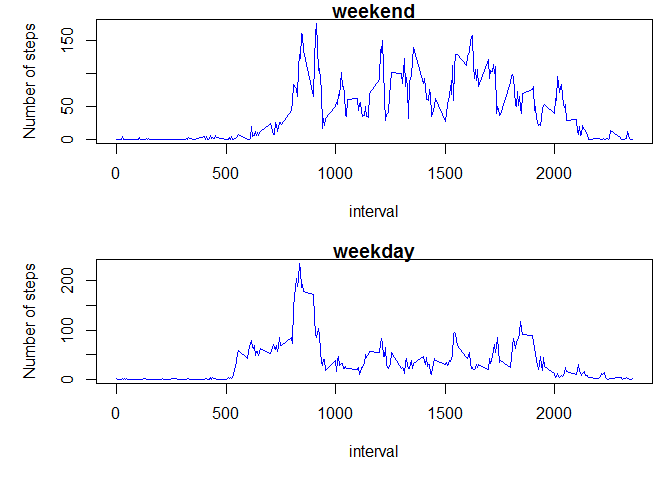
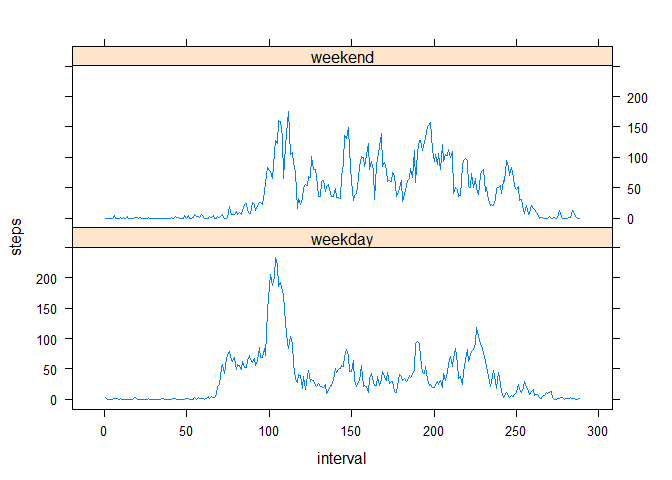
RepData_PeerAssessment1

diff --git a/PA1_template.html b/PA1_template.html
@@ -68,17 +68,19 @@ img {
 <h2>Loading and preprocessing the data</h2>
 <p>I loaded the data and I processed the data into a format suitable for analysis</p>
 <pre class="r"><code>act &lt;- read.csv(&quot;activity.csv&quot;,header = T)
-act$dt &lt;- strptime(act$date, &quot;%Y-%m-%d&quot;)
-act$interval &lt;- as.factor(act$interval)
-act$dtf &lt;- as.factor(act$date)</code></pre>
+act$dt &lt;- strptime(act$date, &quot;%Y-%m-%d&quot;) ##creating a new attribute: dt which is the date in POSIXt
+act$interval &lt;- as.factor(act$interval) ##setting the interval as factor
+act$dtf &lt;- as.factor(act$date) ##creating a new attribute (date as factor)</code></pre>
 </div>
 <div id="what-is-mean-total-number-of-steps-taken-per-day" class="section level2">
 <h2>What is mean total number of steps taken per day?</h2>
 <pre class="r"><code>t &lt;- tapply(act$steps,act$dtf,sum,na.rm=T)
 hist(t,nclass=10,xlab=&quot;Total number of steps taken per day&quot;,main=&quot;Total number of steps taken per day&quot;,col=&quot;red&quot;)</code></pre>
[1 lines of base64/hex data omitted]
-<pre class="r"><code>mt &lt;- mean(t)
-mdt &lt;-median(t)</code></pre>
+<pre class="r"><code>mean(t)</code></pre>
+<pre><code>## [1] 9354.23</code></pre>
+<pre class="r"><code>median(t)</code></pre>
+<pre><code>## [1] 10395</code></pre>
 </div>
 <div id="what-is-the-average-daily-activity-pattern" class="section level2">
 <h2>What is the average daily activity pattern?</h2>
@@ -98,7 +100,7 @@ t2[mx,2]</code></pre>
 <pre class="r"><code>sum(is.na(act$steps))  </code></pre>
 <pre><code>## [1] 2304</code></pre>
 <pre class="r"><code>act2&lt;-act
-act2$steps &lt;- replace(act2$steps,is.na(act2$steps),round(mean(act2$steps,na.rm=T),0))
+act2$steps &lt;- replace(act2$steps,is.na(act2$steps),round(mean(act2$steps,na.rm=T),0)) ##replacing the missing values with the mean value
 t3 &lt;- tapply(act2$steps,act2$dtf,sum,na.rm=T)
 hist(t3,nclass=10,xlab=&quot;Total number of steps taken per day&quot;,main=&quot;Total number of steps taken per day&quot;,col=&quot;red&quot;)</code></pre>
[1 lines of base64/hex data omitted]
@@ -111,16 +113,19 @@ hist(t3,nclass=10,xlab=&quot;Total number of steps taken per day&quot;,main=&quo
 <div id="are-there-differences-in-activity-patterns-between-weekdays-and-weekends" class="section level2">
 <h2>Are there differences in activity patterns between weekdays and weekends?</h2>
 <pre class="r"><code>act4 &lt;- act
-act4$wd &lt;- weekdays(act4$dt)
-act4$weflag &lt;- act4$wd %in% c(&quot;szombat&quot;,&quot;vasárnap&quot;)
-t4 &lt;- tapply(act4$steps,act4[,c(3,7)],mean,na.rm=T)
-t4 &lt;- data.frame(t4)
-t4$interval &lt;- row.names(t4)
-names(t4) &lt;- c(&quot;weekday&quot;,&quot;weekend&quot;,&quot;interval&quot;)
-par(mfrow=c(2,1),mar=c(5,5,1,1))
-with(t4, plot(interval, weekend, col=&quot;blue&quot;, type=&quot;l&quot;,ylab=&quot;Number of steps&quot;, main=&quot;weekend&quot;))
-with(t4, plot(interval, weekday, col=&quot;blue&quot;, type=&quot;l&quot;,ylab=&quot;Number of steps&quot;, main=&quot;weekday&quot;))</code></pre>
[1 lines of base64/hex data omitted]
+act4$wd &lt;- weekdays(act4$dt) 
+act4$wend &lt;- &quot;weekday&quot; ##creating a new attribute to flag the weekend days
+act4$wend[act4$wd==&quot;szombat&quot;] &lt;- &quot;weekend&quot;
+act4$wend[act4$wd==&quot;vasárnap&quot;] &lt;- &quot;weekend&quot;
+library(reshape2)</code></pre>
+<pre><code>## Warning: package 'reshape2' was built under R version 3.0.3</code></pre>
+<pre class="r"><code>act4melt &lt;- melt(act4, id=c(&quot;wend&quot;,&quot;interval&quot;),measure.vars = c(&quot;steps&quot;)) ##melting data
+act4cast &lt;- dcast(act4melt, wend + interval ~ variable,mean,na.rm=T) ##casting data
+act4cast$interval &lt;- as.numeric(act4cast$interval) ##using interval as numeric
+library(lattice) </code></pre>
+<pre><code>## Warning: package 'lattice' was built under R version 3.0.3</code></pre>
+<pre class="r"><code>xyplot(steps ~ interval | wend, data=act4cast, layout=c(1,2),type=&quot;l&quot;)</code></pre>
[1 lines of base64/hex data omitted]
 </div>
 
 

diff --git a/PA1_template.md b/PA1_template.md
@@ -8,9 +8,9 @@ I loaded the data and I processed the data into a format suitable for analysis
 
 ```r
 act <- read.csv("activity.csv",header = T)
-act$dt <- strptime(act$date, "%Y-%m-%d")
-act$interval <- as.factor(act$interval)
-act$dtf <- as.factor(act$date)
+act$dt <- strptime(act$date, "%Y-%m-%d") ##creating a new attribute: dt which is the date in POSIXt
+act$interval <- as.factor(act$interval) ##setting the interval as factor
+act$dtf <- as.factor(act$date) ##creating a new attribute (date as factor)
 ```
 
 
@@ -25,8 +25,19 @@ hist(t,nclass=10,xlab="Total number of steps taken per day",main="Total number o
 ![](PA1_template_files/figure-html/totalstep-1.png) 
 
 ```r
-mt <- mean(t)
-mdt <-median(t)
+mean(t)
+```
+
+```
+## [1] 9354.23
+```
+
+```r
+median(t)
+```
+
+```
+## [1] 10395
 ```
 
 
@@ -68,7 +79,7 @@ sum(is.na(act$steps))
 
 ```r
 act2<-act
-act2$steps <- replace(act2$steps,is.na(act2$steps),round(mean(act2$steps,na.rm=T),0))
+act2$steps <- replace(act2$steps,is.na(act2$steps),round(mean(act2$steps,na.rm=T),0)) ##replacing the missing values with the mean value
 t3 <- tapply(act2$steps,act2$dtf,sum,na.rm=T)
 hist(t3,nclass=10,xlab="Total number of steps taken per day",main="Total number of steps taken per day",col="red")
 ```
@@ -99,15 +110,30 @@ These mean and median values differ from the estimates from the first part of th
 
 ```r
 act4 <- act
-act4$wd <- weekdays(act4$dt)
-act4$weflag <- act4$wd %in% c("szombat","vasárnap")
-t4 <- tapply(act4$steps,act4[,c(3,7)],mean,na.rm=T)
-t4 <- data.frame(t4)
-t4$interval <- row.names(t4)
-names(t4) <- c("weekday","weekend","interval")
-par(mfrow=c(2,1),mar=c(5,5,1,1))
-with(t4, plot(interval, weekend, col="blue", type="l",ylab="Number of steps", main="weekend"))
-with(t4, plot(interval, weekday, col="blue", type="l",ylab="Number of steps", main="weekday"))
+act4$wd <- weekdays(act4$dt) 
+act4$wend <- "weekday" ##creating a new attribute to flag the weekend days
+act4$wend[act4$wd=="szombat"] <- "weekend"
+act4$wend[act4$wd=="vasárnap"] <- "weekend"
+library(reshape2)
+```
+
+```
+## Warning: package 'reshape2' was built under R version 3.0.3
+```
+
+```r
+act4melt <- melt(act4, id=c("wend","interval"),measure.vars = c("steps")) ##melting data
+act4cast <- dcast(act4melt, wend + interval ~ variable,mean,na.rm=T) ##casting data
+act4cast$interval <- as.numeric(act4cast$interval) ##using interval as numeric
+library(lattice) 
+```
+
+```
+## Warning: package 'lattice' was built under R version 3.0.3
+```
+
+```r
+xyplot(steps ~ interval | wend, data=act4cast, layout=c(1,2),type="l")
 ```
 
 ![](PA1_template_files/figure-html/weekends-1.png) 
